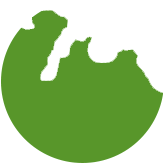
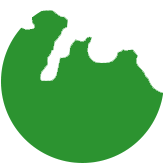
Homepage refactoring 001

diff --git a/src/components/servies/style.js b/src/components/servies/style.js
@@ -4,31 +4,21 @@ import itemTwoBg from "@data/images/services/2.jpg";
 import itemThreeBg from "@data/images/services/3.jpg";
 
 export const IconBoxitem = styled.div`
-    background-image: url(${itemOneBg});
+    /* background-image: url(${itemOneBg}); */
+    background-color: ${themeGet("colors.white")};
     background-size: cover;
     background-repeat: no-repeat;
     position: relative;
     padding: 60px 25px; /* Increase the top and bottom padding to adjust the height */
     margin-bottom: 30px;
-    &::before {
-        content: "";
-        position: absolute;
-        top: 0;
-        left: 0;
-        width: 100%;
-        height: 100%;
-        background-color: rgba(
-            0,
-            0,
-            0,
-            0.7
-        ); /* Adjust the color and opacity as needed */
-    }
+    width: 100%;
+    box-shadow: 0 4px 8px 0 rgba(0, 0, 0, 0.2), 0 6px 20px 0 rgba(0, 0, 0, 0.19);
+    border-radius: 16px;
     &.item-two {
-        background-image: url(${itemTwoBg});
+        /* background-image: url(${itemTwoBg}); */
     }
     &.item-three {
-        background-image: url(${itemThreeBg});
+        /* background-image: url(${itemThreeBg}); */
     }
     ${device.medium} {
         padding: 60px 25px; /* Increase the top and bottom padding for medium devices */
@@ -87,10 +77,12 @@ export const IconBox = styled.div`
 
 export const Title = styled.h4`
     position: relative;
-    color: ${themeGet("colors.white")};
+    color: ${themeGet("colors.primary")};
     z-index: 1;
     font-size: 24px;
+    font-family: ${themeGet("fonts.secondary")};
     line-height: 1.185;
+    margin-top: 10px;
     margin-bottom: 5px;
     ${device.medium} {
         font-size: 28px;
@@ -134,7 +126,7 @@ export const SeparatorLine = styled.div`
 export const ParText = styled.p`
     position: relative;
     z-index: 1;
-    color: ${themeGet("colors.white")};
+    color: ${themeGet("colors.text")};
     line-height: 1.667;
     margin-bottom: 32px;
 `;

diff --git a/src/components/servies/index.js b/src/components/servies/index.js
@@ -27,25 +27,25 @@ const ServiceItem = ({
     return (
         <IconBoxitem className={`${itemClassName} mb-5`}>
             <IconBoxTop>
-                {/* <IconBox>
+                <IconBox>
                     <GatsbyImage image={iconImg} alt="" />
-                </IconBox> */}
+                </IconBox>
                 <Title>{title}</Title>
                 <SubTitle>{subtitle}</SubTitle>
             </IconBoxTop>
             <ContentBox>
-                <SeparatorLine>
+                {/* <SeparatorLine>
                     <StaticImage
                         src="../../data/images/shape/line-s1.png"
                         alt="Nurul-Yateem Foundation"
                     />
-                </SeparatorLine>
+                </SeparatorLine> */}
                 <ParText>{parText}</ParText>
                 <Button
                     path={`/our-work/${slug}`}
                     size="small"
-                    variant="outlined"
-                    color="light"
+                    // variant="outlined"
+                    color="gradient"
                     shape="rectangle"
                     sx={{ color: "#fff" }}
                 >

diff --git a/src/layouts/header/index.jsx b/src/layouts/header/index.jsx
@@ -103,9 +103,9 @@ const Header = () => {
                                     </MobileMenuBtn>
                                     <ButtonBoxArea>
                                         <Button
-                                            sx={{ ml: "15px" }}
+                                            sx={{ ml: "10px" }}
                                             type="button"
-                                            size="small"
+                                            size="medium"
                                             path="#"
                                             color="light"
                                         >
@@ -115,7 +115,7 @@ const Header = () => {
                                         <Button
                                             sx={{ ml: "15px" }}
                                             type="button"
-                                            size="small"
+                                            size="medium"
                                             path="#"
                                             color="gradient"
                                             shape="rectangle"

diff --git a/src/gatsby-plugin-theme-ui/index.js b/src/gatsby-plugin-theme-ui/index.js
@@ -1,7 +1,7 @@
 const theme = {
     colors: {
         transparent: "transparent !important",
-        primary: "#3e8914",
+        primary: "#006837",
         text: "#333",
         heading: "#414141",
         border: "#E0E0E0",
@@ -26,7 +26,7 @@ const theme = {
         alabaster: "#fafafa",
         mystic: "#e1e8ed",
         facebook: "#3b5998",
-        gradient: "linear-gradient(to right, #3e8914 0%, #3e8914 100%)",
+        gradient: "linear-gradient(to right, #006837 0%, #006837 100%)",
     },
     fontSize: {
         body: "18px",
@@ -40,6 +40,7 @@ const theme = {
     fonts: {
         body: `'Calibri', sans-serif`,
         heading: `'Poppins Extrabold', sans-serif`,
+        secondary: `'Poppins Bold', sans-serif`,
         primary: `'Poppins',  sans-serif`,
     },
     fontWeights: {

diff --git a/src/components/ui/button/style.jsx b/src/components/ui/button/style.jsx
@@ -236,7 +236,7 @@ export const createStyles = (theme, color, size, shape, variant) => css`
     css`
         font-size: 15px;
         min-width: 150px;
-        padding: 10px 18px;
+        padding: 16px 18px;
         font-width: 500;
         font-size: ${theme.fontSize.body} ${device.small} {
             font-size: 13px;
@@ -284,7 +284,7 @@ export const createStyles = (theme, color, size, shape, variant) => css`
 
      ${shape === "rectangle" &&
     css`
-        border-radius: 0px;
+        border-radius: 6px;
     `}
 
     ${variant === "outlined" &&

diff --git a/src/containers/home/our-work/index.js b/src/containers/home/our-work/index.js
@@ -44,7 +44,6 @@ const OurWorkArea = () => {
                                 <Col lg={4} md={6} sm={6} key={data.node.id}>
                                     <ServiceItem
                                         title={data.node.title}
-                                        subtitle={data.node.subtitle}
                                         parText={data.node.parText}
                                         slug={data.node.fields.slug}
                                         itemClassName={data.node.itemClassName}
